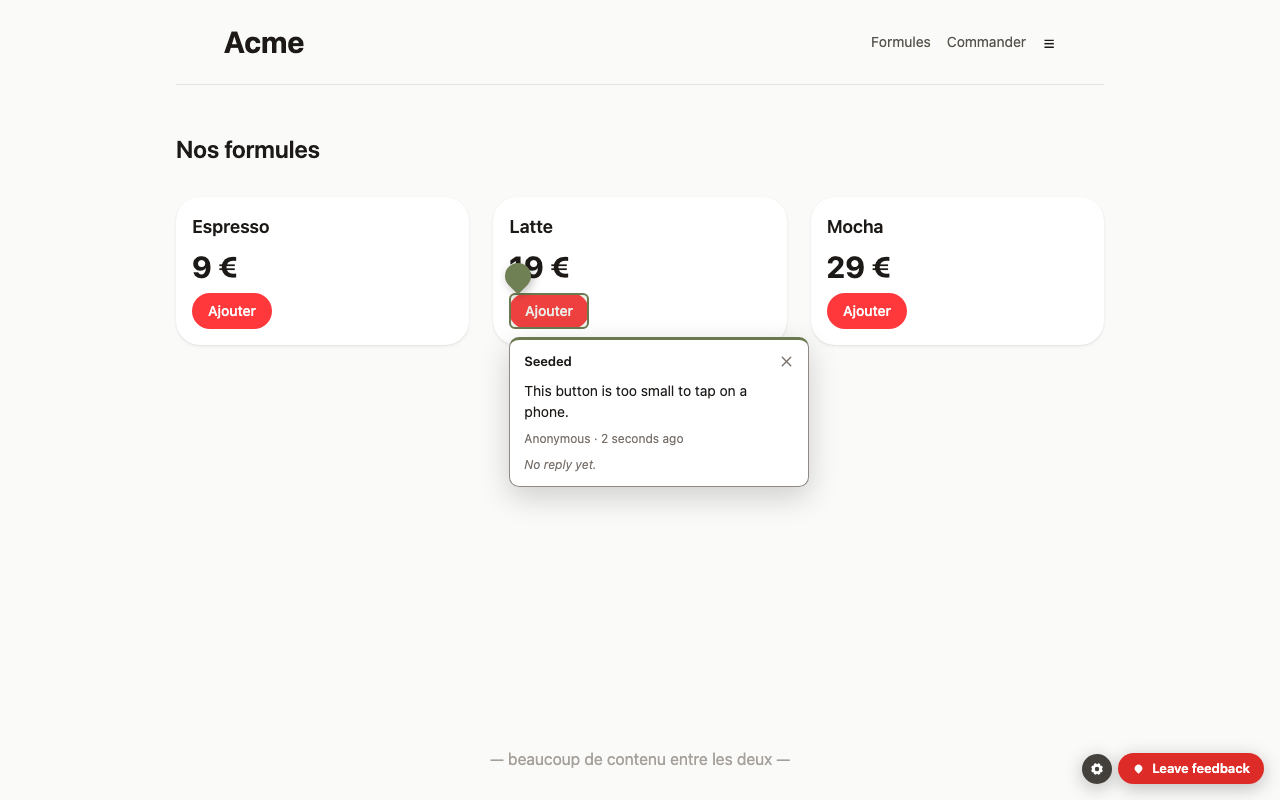
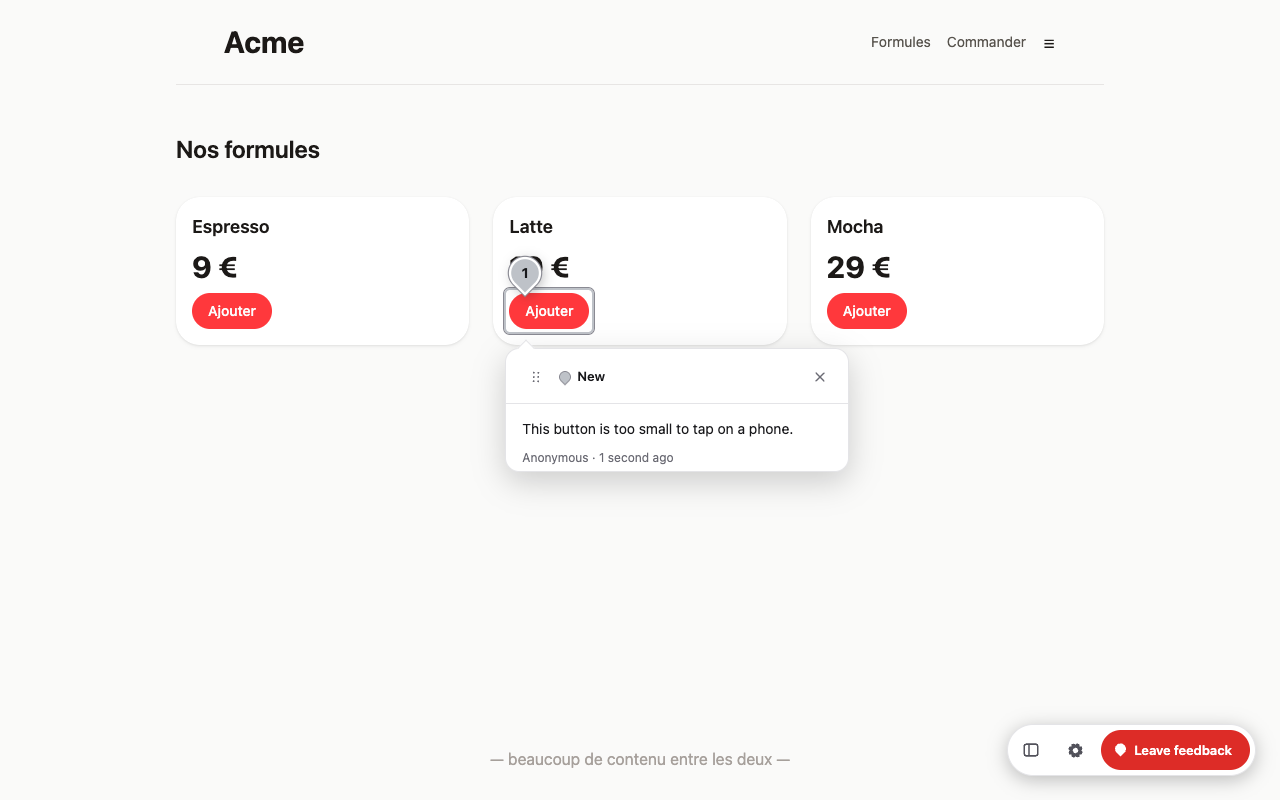
docs(extension): the store listing names Fruitback Cloud as where the notes go (FRU-513)
The listing said that the publisher runs no server that receives the
notes, and that a reviewer needs a worker their team runs. Since the
Cloud is the default of a build (DEFAULT_CLOUD), both were false, on a
public privacy statement.

- « Where your notes go »: Fruitback Cloud by default, or the team's own
  server, with a link to docs/privacy.md.
- « You need a worker » becomes « Use Fruitback Cloud, or your own server ».
- « How it works »: sign in, then turn the site on.
- The single purpose, the storage justification, the data table and the
  certifications follow the same fact.
- 3-the-pin-stays.png is taken again: the stage is « New », not « Seeded ».

store-listing.test.ts fails on the old text.

diff --git a/apps/extension/src/store-listing.test.ts b/apps/extension/src/store-listing.test.ts
@@ -1,0 +1,36 @@
+import { describe, it } from 'node:test';
+import assert from 'node:assert/strict';
+import { readFileSync } from 'node:fs';
+import { fileURLToPath } from 'node:url';
+import { DEFAULT_CLOUD } from './popup-state.ts';
+
+/**
+ * The texts of the store listing, against the Fruitback this build signs in to (FRU-513).
+ *
+ * The listing said that the publisher runs no server that receives the notes. Since the Cloud is the
+ * default of a build, that sentence is a false privacy statement on a public store page. The store
+ * forms are pasted by hand from `store/listing.md`, so this file is the only place a test can read.
+ */
+describe('the store listing says where the notes go', () => {
+  const listing = readFileSync(fileURLToPath(new URL('../store/listing.md', import.meta.url)), 'utf8');
+  const loose = listing.replace(/\s+/g, ' ');
+
+  it('names the Cloud of this build as the default destination', () => {
+    assert.ok(loose.includes(`By default, to Fruitback Cloud (${new URL(DEFAULT_CLOUD).host})`));
+  });
+
+  it('does not say that the publisher receives no note, or that a reviewer needs a server of their own', () => {
+    assert.ok(!loose.includes('runs no server that receives your notes'));
+    assert.ok(!loose.includes('YOU NEED A WORKER'));
+    assert.ok(!loose.includes('the Fruitback worker your team runs'));
+    assert.ok(!loose.includes("the feedback server that the reviewer's own team runs"));
+  });
+
+  it('offers the button that the popup draws for a server of its own', () => {
+    const popup = readFileSync(fileURLToPath(new URL('./popup-view.ts', import.meta.url)), 'utf8');
+    const own = /t\('(Use your own Fruitback server)'\)/.exec(popup)?.[1];
+
+    assert.ok(own !== undefined, 'the popup no longer offers a server of its own');
+    assert.ok(loose.includes(`"${own}"`), `the listing does not quote « ${own} »`);
+  });
+});

diff --git a/apps/extension/store/listing.md b/apps/extension/store/listing.md
@@ -18,7 +18,7 @@ Fruitback
 **Summary** (132 characters at most)
 
 ```text
-Click an element on a site you review, write a note, and it becomes an issue in your team's own tracker.
+Click an element of a site you review, write a note, and your team gets it in Linear, GitHub Issues or Fruitback.
 ```
 
 **Category**: Developer Tools. **Language**: English.
@@ -26,23 +26,23 @@ Click an element on a site you review, write a note, and it becomes an issue in 
 **Description**
 
 ```text
-Fruitback is a visual feedback tool for a site under review. Click an element on the page, write a note, and the note becomes an issue for the team that builds the site. Come back to the page later and your pins are still there, coloured by the state of each issue.
+Fruitback lets you leave notes on a website you review. Click an element of the page, write a note, and your team gets it in Linear, in GitHub Issues, or in its Fruitback workspace. Come back to the page later: each note is still on its element, in the colour of its status.
 
-This extension is for the reviewer. It puts the Fruitback widget on a site that does not embed it, so nobody else who visits that site sees anything.
+This extension is for the reviewer. It adds Fruitback to the sites you turn on, for you alone: the other visitors of a site see nothing.
 
 HOW IT WORKS
-1. Open the page you review and click the Fruitback icon.
-2. Enter the address of the Fruitback worker your team runs, and turn the site on. The browser asks you for access to that one site.
-3. Click "Leave feedback", pick an element, write your note, send it.
+1. Sign in once, with your email, Google or GitHub. The extension opens a tab for it when you install it.
+2. Open the site you review, click the Fruitback icon, and turn the site on. The browser asks you for access to that one site.
+3. Click "Leave feedback", pick an element, write your note, and send it.
 
 WHAT IT ASKS FOR
 Nothing at install. The extension can read no page until you turn a site on, and it asks then, for that site only. Turn the site off and the extension stops running there.
 
 WHERE YOUR NOTES GO
-To the worker address you entered, and nowhere else. Fruitback is open source and self-hosted: the publisher of this extension runs no server that receives your notes, and collects no analytics.
+By default, to Fruitback Cloud (api.fruitback.com), which Sakuga Software, the publisher of this extension, runs in Europe. Fruitback Cloud keeps each note, and sends it to the tracker your team connected, if there is one. If your team runs its own Fruitback server, choose "Use your own Fruitback server" in the popup: your notes then go to that server only, and the publisher receives none of them. The extension collects no analytics. What a note holds, and who keeps it: https://sakuga-software.github.io/fruitback/privacy.html
 
-YOU NEED A WORKER
-The extension is one half. The other half is a Fruitback worker, a small server your team runs with Docker. It stores the notes in Linear, in GitHub Issues, or in its PostgreSQL database. The guide is at https://sakuga-software.github.io/fruitback/
+USE FRUITBACK CLOUD, OR YOUR OWN SERVER
+With Fruitback Cloud there is no server to run: your team creates a workspace at https://app.fruitback.com and adds its sites. Fruitback is open source, so a team can also run its own server with Docker. The guide is at https://sakuga-software.github.io/fruitback/
 
 TRY IT
 A public sandbox runs at https://demo.fruitback.com/?widget=off with the worker https://api.demo.fruitback.com. Anybody can write there, and it is emptied every night.
@@ -52,11 +52,11 @@ Source code and licence (AGPL-3.0): https://github.com/sakuga-software/fruitback
 
 **Screenshots** (1280 × 800, in this folder, taken on the sandbox)
 
-| File                    | Caption                                           |
-| ----------------------- | ------------------------------------------------- |
-| `1-pick-an-element.png` | Pick the element your note is about.              |
-| `2-write-a-note.png`    | Write the note. A name is optional.               |
-| `3-the-pin-stays.png`   | The pin stays on the page, with the team's reply. |
+| File                    | Caption                                         |
+| ----------------------- | ----------------------------------------------- |
+| `1-pick-an-element.png` | Pick the element your note is about.            |
+| `2-write-a-note.png`    | Write the note. A name is optional.             |
+| `3-the-pin-stays.png`   | The note stays on its element, with its status. |
 
 The store also wants one picture of the popup. Take it by hand after you load the extension: an
 automated browser cannot open the popup from the toolbar.
@@ -74,7 +74,7 @@ automated browser cannot open the popup from the toolbar.
 **Single purpose**
 
 ```text
-Fruitback lets a reviewer leave notes pinned to elements of a web page, and sends each note to the feedback server that the reviewer's own team runs.
+Fruitback lets a reviewer leave notes pinned to elements of a web page, and sends each note to the Fruitback server of the reviewer's team: Fruitback Cloud by default, or a server that the team runs.
 ```
 
 **Permission justifications**
@@ -82,7 +82,7 @@ Fruitback lets a reviewer leave notes pinned to elements of a web page, and send
 `storage`
 
 ```text
-Stores the list of sites the user turned on, with the server address the user entered for each one. In team mode it also stores the session tokens the user's server issued. Everything stays in the extension's own storage, which no web page can read.
+Stores the list of sites the user turned on, with the address of the Fruitback server of each one. It also stores the session tokens that this server issued when the user signed in. Everything stays in the extension's own storage, which no web page can read.
 ```
 
 `scripting`
@@ -118,7 +118,7 @@ Adds one item, "Capture with Fruitback", to the context menu of a web page. A cl
 Host permission (`optional_host_permissions: *://*/*`)
 
 ```text
-The extension requests no host access at install. The pattern is optional and wide because the user chooses which site to review, and that can be any staging or production site. Access is requested for one origin at a time, when the user clicks "Turn on for this site". When the user turns a site off, the extension unregisters its scripts for that site, runs nothing there, and gives the access to that site back to the browser. In team mode the extension also asks for access to the address of the user's own feedback server, to send the notes to it.
+The extension requests no host access at install. The pattern is optional and wide because the user chooses which site to review, and that can be any staging or production site. Access is requested for one origin at a time, when the user clicks "Turn on for this site". When the user turns a site off, the extension unregisters its scripts for that site, runs nothing there, and gives the access to that site back to the browser. In team mode the extension also asks for access to the address of the Fruitback server of the user's team, to send the notes to it.
 ```
 
 Host permission (`optional_host_permissions: <all_urls>`, FRU-425)
@@ -135,18 +135,19 @@ All JavaScript is packaged in the extension. It loads and evaluates no code from
 
 **Data usage**. Tick these three and no other:
 
-| Category                            | Why                                                                                                  |
-| ----------------------------------- | ---------------------------------------------------------------------------------------------------- |
-| Personally identifiable information | The optional name a reviewer types beside a note.                                                    |
-| Authentication information          | In team mode, the session tokens of the user's own feedback server, kept in the extension's storage. |
-| Website content                     | The note, the address of the page, and the selector and a short excerpt of the text of the element.  |
+| Category                            | Why                                                                                                    |
+| ----------------------------------- | ------------------------------------------------------------------------------------------------------ |
+| Personally identifiable information | The optional name a reviewer types beside a note, or the name and email address of a signed-in member. |
+| Authentication information          | The session tokens of the user's Fruitback server, kept in the extension's storage.                    |
+| Website content                     | The note, the address of the page, and the selector and a short excerpt of the text of the element.    |
 
 Do not tick « Web history »: the extension sends the address of a page only with a note the user
 writes on that page, and it keeps no list of visited pages.
 
 Then tick the three certifications. Each one is true:
 
-- The data is not sold or transferred to third parties. It goes to the server the user entered.
+- The data is not sold or transferred to third parties. It goes to Fruitback Cloud, or to the server
+  the user entered, and from there to the tracker that the user's team connected.
 - The data is not used for a purpose unrelated to the single purpose.
 - The data is not used to determine creditworthiness or for lending.
 
